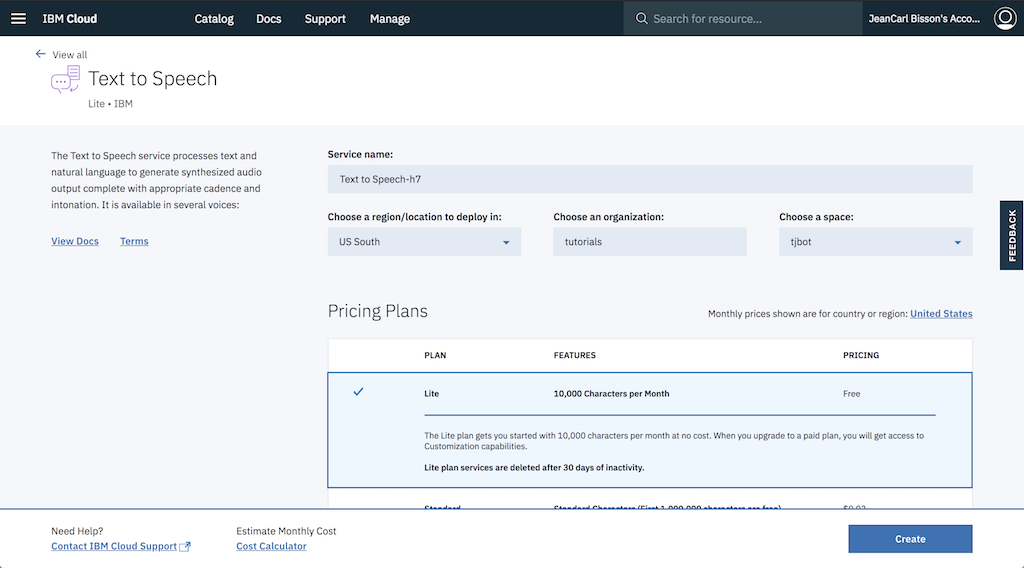
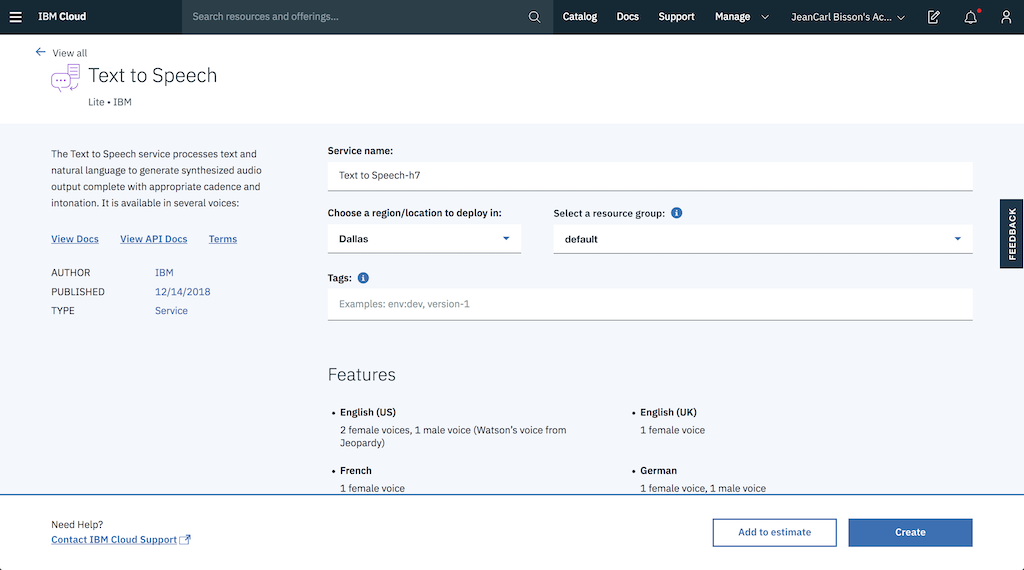
Updated screenshots of IBM Cloud console

diff --git a/text-to-speech.md b/text-to-speech.md
@@ -16,19 +16,18 @@ TJBot can speak using the speaker and with the help of the [Watson Text to Speec
 
 4. Click on __Create__ to create a service instance.
 
-	![](assets/create-ta.png)
+	![](assets/create-tts.png)
 
 5. Click __Show Credentials__.
 
 	![](assets/servicecredentials-tts.png)
 
-6. Copy the username and password credentials into the `.env` file in the simulator.
+6. Copy the API Key credential credentials into the `.env` file in the simulator.
 
 	![](assets/credentials-tts.png)
 
 ```
-TEXT_TO_SPEECH_USERNAME=
-TEXT_TO_SPEECH_PASSWORD=
+TEXT_TO_SPEECH_API_KEY=
 ```
 
 ## Command TJBot to Speak
@@ -88,8 +87,7 @@ For each step, REPLACE the placeholders `/* step ## */` with the suggested code.
 
 	```
 	  text_to_speech: {
-	    username: process.env.TEXT_TO_SPEECH_USERNAME,
-	    password: process.env.TEXT_TO_SPEECH_PASSWORD
+	    apikey: process.env.TEXT_TO_SPEECH_API_KEY
 	  }
 	```
 

diff --git a/speech-to-text.md b/speech-to-text.md
@@ -22,13 +22,12 @@ TJBot can listen using the microphone and with the help of the [Watson Speech to
 
 	![](assets/servicecredentials-stt.png)
 	
-6. Copy the username and password credentials into the `.env` file in the simulator.
+6. Copy the API Key credential into the `.env` file in the simulator.
 
 	![](assets/credentials-stt.png)
 	
 ```
-SPEECH_TO_TEXT_USERNAME=
-SPEECH_TO_TEXT_PASSWORD=
+SPEECH_TO_TEXT_API_KEY=
 ```
 
 ## Command TJBot to Listen
@@ -62,8 +61,7 @@ For each step, REPLACE the placeholders `/* step ## */` with the suggested code.
 
 	```
 	    speech_to_text: {
-	      username: process.env.SPEECH_TO_TEXT_USERNAME,
-	      password: process.env.SPEECH_TO_TEXT_PASSWORD
+	      apikey: process.env.SPEECH_TO_TEXT_API_KEY
 	    }
 	```
 	

diff --git a/tone-analyzer.md b/tone-analyzer.md
@@ -22,13 +22,12 @@ TJBot can analyze the emotion of text with the help of the [Watson Tone Analyzer
 
 	![](assets/servicecredentials-ta.png)
 
-6. Copy the username and password credentials into the `.env` file in the simulator.
+6. Copy the API Key credential into the `.env` file in the simulator.
 
 	![](assets/credentials-ta.png)
 
 ```
-TONE_ANALYZER_USERNAME=
-TONE_ANALYZER_PASSWORD=
+TONE_ANALYZER_API_KEY=
 ```
 
 ## Command TJBot to Analyze Emotion
@@ -61,8 +60,7 @@ For each step, REPLACE the placeholders `/* step ## */` with the suggested code.
 
 	```
 	  tone_analyzer: {
-	    username: process.env.TONE_ANALYZER_USERNAME,
-	    password: process.env.TONE_ANALYZER_PASSWORD
+	    apikey: process.env.TONE_ANALYZER_API_KEY
 	  }
 	```
 

diff --git a/language-translator.md b/language-translator.md
@@ -22,7 +22,7 @@ TJBot can translate content with the help of the [Watson Language Translator Ser
 
 	![](assets/servicecredentials-lt.png)
 	
-6. Copy the API Key credentials into the `.env` file in the simulator.
+6. Copy the API Key credential into the `.env` file in the simulator.
 
 	![](assets/credentials-lt.png)
 	

diff --git a/visual-recognition.md b/visual-recognition.md
@@ -22,7 +22,7 @@ TJBot can recognize objects and colors in an image with the help of the [Watson 
 
 	![](assets/servicecredentials-vr.png)
 
-6. Copy the api_key credential into the `.env` file in the simulator.
+6. Copy the API Key credential into the `.env` file in the simulator.
 
 	![](assets/credentials-vr.png)
 

diff --git a/README.md b/README.md
@@ -29,8 +29,7 @@ var tj = new TJBot(
   },
   { // service credentials for the Watson services that are used
 	text_to_speech: {
-	  username: process.env.TEXT_TO_SPEECH_USERNAME,
-	  password: process.env.TEXT_TO_SPEECH_PASSWORD
+	  apikey: process.env.TEXT_TO_SPEECH_API_KEY
 	}
   }
 );
